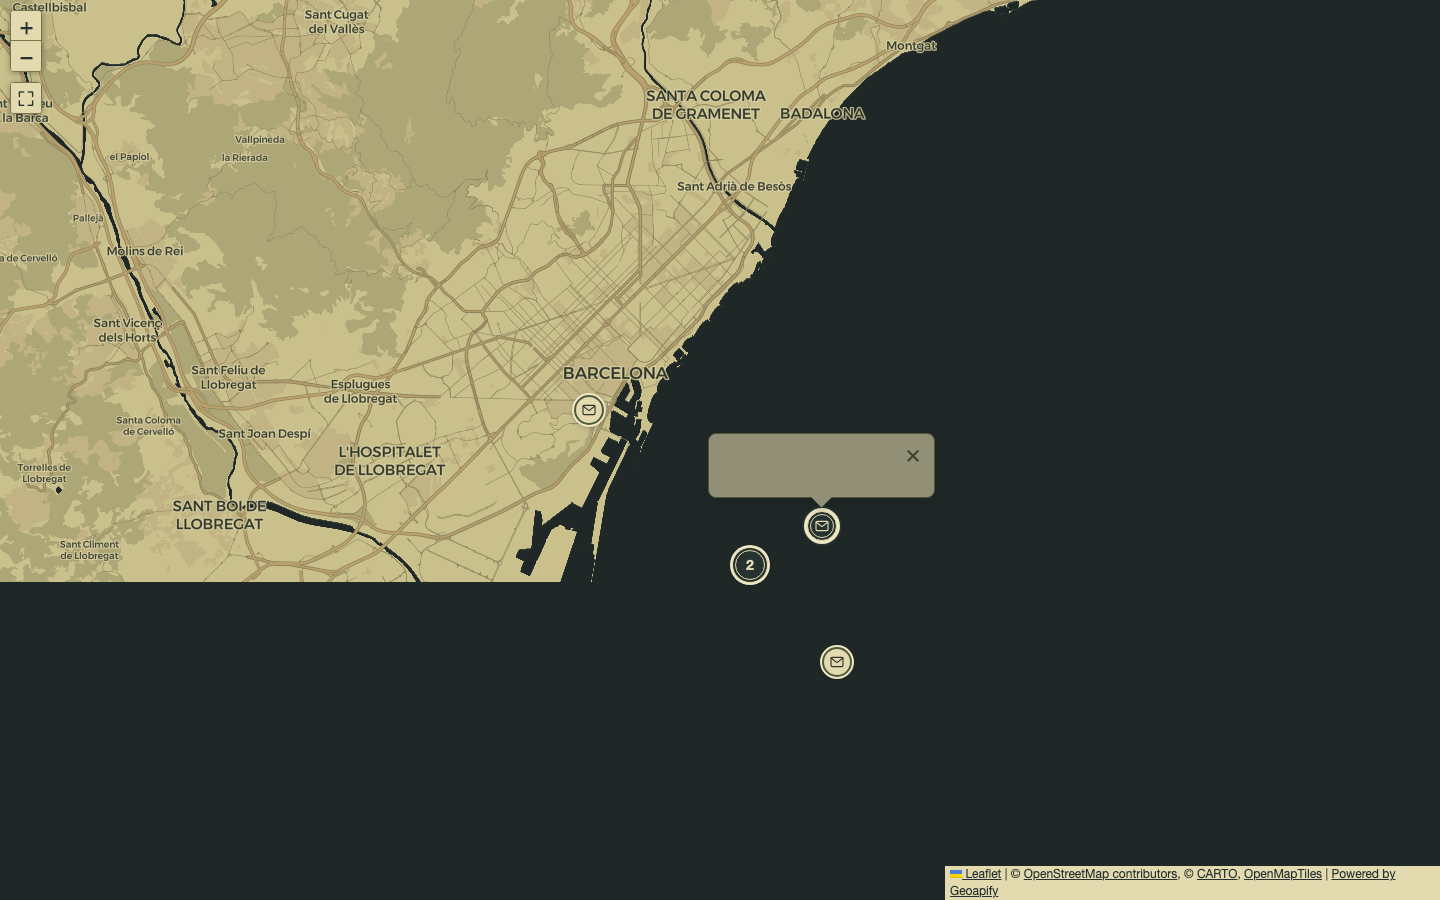
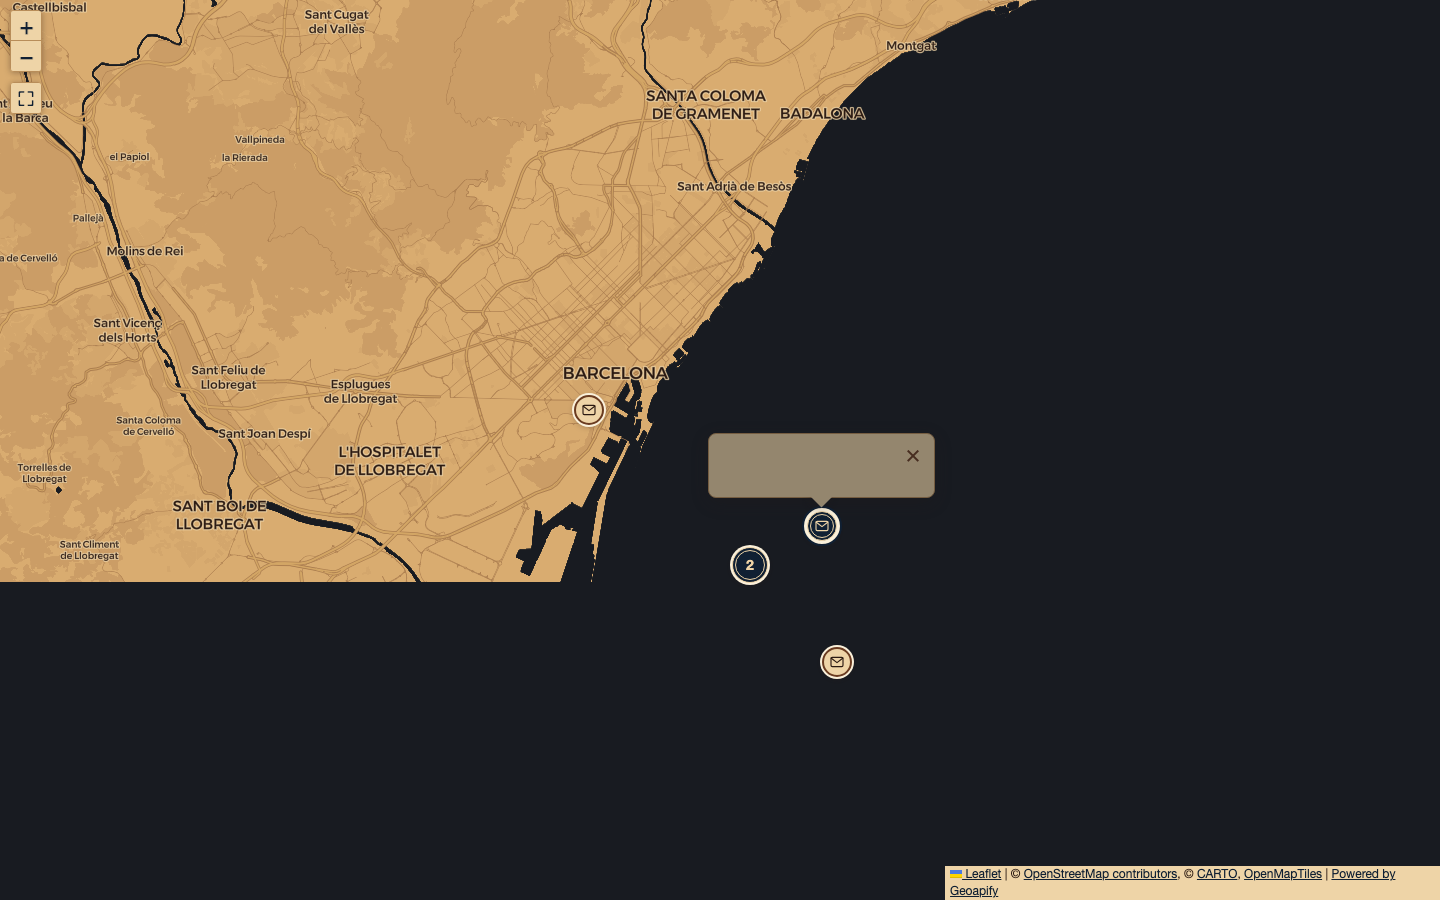
style(map): derive the atlas palette from existing site colors

Changed region(s): [[0.0, 0.0, 0.6875, 0.6533], [0.5625, 0.7156, 0.5938, 0.7467]]

diff --git a/src/config/map-style.config.ts b/src/config/map-style.config.ts
@@ -1,28 +1,30 @@
 /**
- * Fantasy atlas palette: charcoal seas, olive parchment land and dark ink.
+ * Site-derived atlas palette: header-dark seas, warm paper land and brown ink.
+ * Anchors match globals.css: header #181b21, paper #d9ac70, paper-light #eed4a7,
+ * ink #2b1a12, brown #6a3b20 and gold #c79a50. Feature shades mix these anchors.
  * Color palette for the CARTO Voyager vector background. Edit the HEX values and reload the map.
  * Letter and control colors live in src/components/map/map-theme.css.
  * Fallback PNG tiles retain the original CARTO colors.
  */
 export const mapStyle = {
   colors: {
-    land: '#c9c08c',
-    water: '#202827',
-    waterShore: '#36413a',
-    vegetation: '#ada777',
-    residential: '#c1b383',
-    buildings: '#afa071',
-    buildingOutline: '#7c7553',
-    roads: '#dbd0a0',
-    majorRoads: '#bca16d',
-    roadOutline: '#8e845d',
-    paths: '#8a825d',
-    railways: '#6e7355',
-    boundaries: '#747453',
-    labels: '#30372a',
-    waterLabels: '#d5d0af',
-    labelHalo: '#e1d7a8',
-    waterLabelHalo: '#202827',
+    land: '#d9ac70',
+    water: '#181b21',
+    waterShore: '#2b2a29',
+    vegetation: '#cb9d66',
+    residential: '#d3a66c',
+    buildings: '#c39560',
+    buildingOutline: '#b28454',
+    roads: '#eed4a7',
+    majorRoads: '#d3a665',
+    roadOutline: '#ad7f50',
+    paths: '#b28454',
+    railways: '#a7794c',
+    boundaries: '#9c6e44',
+    labels: '#2b1a12',
+    waterLabels: '#eed4a7',
+    labelHalo: '#eed4a7',
+    waterLabelHalo: '#181b21',
   },
 }
 

diff --git a/src/components/map/map-theme.css b/src/components/map/map-theme.css
@@ -1,21 +1,21 @@
 /* Map interface colors. Edit cartographic colors in src/config/map-style.config.ts. */
 :root {
-  --map-paper: #e3dab0;
-  --map-paper-hover: #d4c797;
-  --map-ink: #30352a;
-  --map-muted: #575e44;
-  --map-brown: #4e5a3d;
-  --map-navy: #26322f;
-  --map-navy-hover: #394a40;
-  --map-on-navy: #e3dab0;
-  --map-border: #77734c;
-  --map-focus: #26322f;
-  --map-halo: #f0e8c4;
-  --map-shadow: #101a1959;
-  --map-disabled: #6b6e54;
-  --map-canvas: #202827;
+  --map-paper: #eed4a7;
+  --map-paper-hover: #d9ac70;
+  --map-ink: #2b1a12;
+  --map-muted: #684728;
+  --map-brown: #6a3b20;
+  --map-navy: #102033;
+  --map-navy-hover: #213c55;
+  --map-on-navy: #eed4a7;
+  --map-border: #b88d59;
+  --map-focus: #102033;
+  --map-halo: #faf0da;
+  --map-shadow: #241a1759;
+  --map-disabled: #746042;
+  --map-canvas: #181b21;
   --map-grain-opacity: .12;
-  --map-aged-edge: #37433233;
+  --map-aged-edge: #57321f33;
 }
 
 .leaflet-container { background: var(--map-canvas); }

diff --git a/tests/visual/fixtures/map-palette.tsx b/tests/visual/fixtures/map-palette.tsx
@@ -19,8 +19,10 @@ function Fixture() {
   const [fullscreen, setFullscreen] = useState(false)
   const [selected, setSelected] = useState<string>()
   const [visible, setVisible] = useState(true)
+  const brandFrame = new URLSearchParams(location.search).get('frame') === 'brand'
   return <NextIntlClientProvider locale="en" messages={{ Map: messages }} timeZone="UTC"><MapQueryProvider>
-    <main style={{ maxWidth: 1200, margin: '24px auto', padding: '0 12px' }}>
+    {brandFrame && <header className="site-header"><span className="nav-brand">Atiny Atlas</span></header>}
+    <main className={brandFrame ? 'paper-world' : undefined} style={{ maxWidth: 1200, margin: '24px auto', padding: '0 12px' }}>
       <h1 style={{ margin: '0 0 8px', color: '#102033', fontSize: 24 }}>ATINY letters · Barcelona</h1>
       <p style={{ margin: '0 0 16px' }}>Water, city and terrain · map palette</p>
       <button onClick={() => setSelected(features[2].publicId)}>Select letter</button>

diff --git a/docs/map-palette.md b/docs/map-palette.md
@@ -9,8 +9,8 @@ Edit **`src/config/map-style.config.ts`** and reload the map. The same configura
 ```ts
 export const mapStyle = {
   colors: {
-    land: '#c9c08c',
-    water: '#202827',
+    land: '#d9ac70',
+    water: '#181b21',
     // Other feature colors are listed in the configuration file.
   },
 }
@@ -18,38 +18,38 @@ export const mapStyle = {
 
 | Setting | Default | Use |
 | --- | --- | --- |
-| `land` | `#c9c08c` | Olive parchment continents and country boundary halo |
-| `water` | `#202827` | Charcoal seas, lakes and rivers |
-| `waterShore` | `#36413a` | Water edge/shadow |
-| `vegetation` | `#ada777` | Parks, woodland and natural land cover |
-| `residential` | `#c1b383` | Residential areas |
-| `buildings` | `#afa071` | Buildings and roofs |
-| `buildingOutline` | `#7c7553` | Building outlines |
-| `roads` | `#dbd0a0` | Minor roads and airport surfaces |
-| `majorRoads` | `#bca16d` | Primary/secondary roads, trunks and motorways |
-| `roadOutline` | `#8e845d` | Road casings, including bridges and tunnels |
-| `paths` | `#8a825d` | Paths |
-| `railways` | `#6e7355` | Rail lines; dashes use `roads` |
-| `boundaries` | `#747453` | Country and administrative boundaries |
-| `labels` | `#30372a` | Place, road, building-number and point-of-interest text |
-| `waterLabels` | `#d5d0af` | Water names |
-| `labelHalo` | `#e1d7a8` | Light halo for dark labels on land |
-| `waterLabelHalo` | `#202827` | Dark halo for light water names |
+| `land` | `#d9ac70` | Warm site parchment continents and country boundary halo |
+| `water` | `#181b21` | Site header-dark seas, lakes and rivers |
+| `waterShore` | `#2b2a29` | Water edge/shadow |
+| `vegetation` | `#cb9d66` | Parks, woodland and natural land cover |
+| `residential` | `#d3a66c` | Residential areas |
+| `buildings` | `#c39560` | Buildings and roofs |
+| `buildingOutline` | `#b28454` | Building outlines |
+| `roads` | `#eed4a7` | Minor roads and airport surfaces |
+| `majorRoads` | `#d3a665` | Primary/secondary roads, trunks and motorways |
+| `roadOutline` | `#ad7f50` | Road casings, including bridges and tunnels |
+| `paths` | `#b28454` | Paths |
+| `railways` | `#a7794c` | Rail lines; dashes use `roads` |
+| `boundaries` | `#9c6e44` | Country and administrative boundaries |
+| `labels` | `#2b1a12` | Place, road, building-number and point-of-interest text |
+| `waterLabels` | `#eed4a7` | Water names |
+| `labelHalo` | `#eed4a7` | Light halo for dark labels on land |
+| `waterLabelHalo` | `#181b21` | Dark halo for light water names |
 
 The `water` setting colors the dominant ocean fill, including CARTO's translated overlay; `waterShore` colors its narrow exposed shoreline. The configuration changes paint colors; CARTO's existing placement, geometry, widths, opacity and zoom-dependent visibility remain intact. Changes to those advanced properties belong in the style builder or the pinned style, rather than the color palette.
 
 ## Letters and controls
 
-Edit **`src/components/map/map-theme.css`** for all `--map-*` interface tokens. Parchment markers have an olive-ink border and a pale paper halo. Charcoal clusters have a double border and a numeric count. Selected letters have a double border plus an outer ring; keyboard focus adds a dashed outline. Selection is also exposed as `aria-pressed`.
+Edit **`src/components/map/map-theme.css`** for all `--map-*` interface tokens. Parchment markers have a brown-ink border and a pale paper halo. Site navy clusters have a double border and a numeric count. Selected letters have a double border plus an outer ring; keyboard focus adds a dashed outline. Selection is also exposed as `aria-pressed`.
 
 | Content | Foreground / background | Contrast |
 | --- | --- | --- |
-| Marker, popup and attribution text | `#30352a` / `#e3dab0` | 8.94:1 |
-| Cluster and selected letter | `#e3dab0` / `#26322f` | 9.45:1 |
-| Zoom/fullscreen controls | `#26322f` / `#e3dab0` | 9.45:1 |
-| Secondary interface text | `#575e44` / `#e3dab0` | 4.83:1 |
-| Cartographic label / halo | `#30372a` / `#e1d7a8` | 8.49:1 |
-| Water label / halo | `#d5d0af` / `#202827` | 9.66:1 |
+| Marker, popup and attribution text | `#2b1a12` / `#eed4a7` | 11.60:1 |
+| Cluster and selected letter | `#eed4a7` / `#102033` | 11.45:1 |
+| Zoom/fullscreen controls | `#102033` / `#eed4a7` | 11.45:1 |
+| Secondary interface text | `#684728` / `#eed4a7` | 5.80:1 |
+| Cartographic label / halo | `#2b1a12` / `#eed4a7` | 11.60:1 |
+| Water label / halo | `#eed4a7` / `#181b21` | 12.00:1 |
 
 These ratios apply to the defaults. Recheck contrast after editing colors. A subtle, static SVG grain and edge shading age only the vector background. Set `--map-grain-opacity` to `0` to disable the effect; `--map-aged-edge` adjusts its edge tint. Markers, controls and popups sit in separate panes, so their contrast remains unchanged by the texture.
 
@@ -80,8 +80,10 @@ The palette tests wait for a zoom to finish before unmounting. Leaflet 1.9.4 has
 - Existing map browser suite: 28 passed, 1 intermittent failure in `applies partial cities automatically without moving the filters on /map at 390px` (city URL parameter timing). A previous run hit the desktop variant and a selected-popup timing failure; their focused reruns passed. The failing mobile case then passed three consecutive focused reruns; the unchanged baseline also passed its focused repetitions. The cause of the intermittent failure is not attributed to this PR. Keep this limitation visible when reviewing the experimental PR.
 - Actual production build: vector layer visible, raster layer removed, worker and `/api/map/features`, `/api/map/messages`, `/api/map/filter-options` returned HTTP 200, no page errors.
 
-### Dark-sea fantasy atlas refinement
+### Site-derived atlas refinement
 
-The latest supplied fantasy-map reference guides the active palette: charcoal seas, olive parchment continents and dark ink. Forests use muted olive, cities and buildings use aged ochres, and major roads use desaturated brass. These HEX values are interpreted from the reference, not exact sampled colors. Land labels use dark ink with a light halo; water names use pale ink with a dark halo. A static, low-opacity paper grain remains confined to the vector background, keeping letters and controls crisp.
+The dark-sea/light-land composition remains, with its colors anchored to the existing website rather than an independent olive palette. The sea uses the exact `.site-header` base color (`#181b21`). Land uses `--paper` (`#d9ac70`); labels use `--ink` (`#2b1a12`), and light paper uses `--paper-light` (`#eed4a7`). The palette configuration records these source anchors from `globals.css`.
 
-The earlier nautical palette remains available in Git history and its world capture is retained for comparison. The current configuration files still control the active colors and texture. This palette is applied to real-world cartography.
+Vegetation mixes paper with 13% site brown, residential areas with 5%, buildings with 20%, building outlines/paths with 35%, road outlines with 40%, railways with 45%, and boundaries with 55%. Major roads mix paper with 35% site gold (`#c79a50`). This keeps detail within the website's warm brown, paper and gold family. Marker, control and popup tokens use the same ink, brown, light paper and navy as the page.
+
+The paper texture is still confined to the cartography. The earlier olive and nautical world captures remain available for comparison. The additional `?frame=brand` fixture uses the actual `.site-header` and `.paper-world` CSS to show the map alongside the existing site colors.

diff --git a/docs/previews/issue-131/README.md b/docs/previews/issue-131/README.md
@@ -2,7 +2,7 @@
 
 The same production map component is rendered in a deterministic letter harness. CARTO tiles are real; letter data is a local fixture. The before/after, popup and fullscreen captures use Barcelona at latitude 41.395, longitude 2.16 and Leaflet zoom 12. Browser: Chromium. Height: 900 px. The baseline uses commit `628556c`; the updated view uses this branch.
 
-| Viewport | Before: raster and original palette | After: vector and dark-sea atlas palette |
+| Viewport | Before: raster and original palette | After: vector and site-derived atlas palette |
 | --- | --- | --- |
 | Desktop, 1440 px | ![Original desktop map](before-1440.png) | ![Updated desktop map](after-1440.png) |
 | Mobile, 390 px | ![Original mobile map](before-390.png) | ![Updated mobile map](after-390.png) |
@@ -19,16 +19,24 @@ The same production map component is rendered in a deterministic letter harness.
 | --- | --- |
 | ![Desktop fullscreen map](fullscreen-1440.png) | ![Mobile fullscreen map](fullscreen-390.png) |
 
-The screenshots show paper markers over olive parchment urban land, the charcoal sea and muted olive natural terrain, charcoal clusters and a selected letter with a double border and outer ring. Browser assertions separately check dashed keyboard focus and contrast of at least 4.5:1 for normal, selected and hovered letters, clusters, controls, popup and attribution text. The 320 px viewport is tested without adding another near-identical capture.
+The screenshots show paper markers over warm paper urban land, the header-dark sea and brown-paper natural terrain, navy clusters and a selected letter with a double border and outer ring. Browser assertions separately check dashed keyboard focus and contrast of at least 4.5:1 for normal, selected and hovered letters, clusters, controls, popup and attribution text. The 320 px viewport is tested without adding another near-identical capture.
 
 See [palette configuration and verification](../../map-palette.md) for editing instructions, default colors, fallback behavior and reproduction commands.
 
-## Dark-sea atlas at world scale
+## Site-derived atlas at world scale
 
-The latest reference uses olive parchment continents over a charcoal sea. The world view (1024 px viewport, center 20°N / 0°, zoom 2) shows this relationship in the interactive vector map. The same palette derives dark ink, ochre cities, olive forests and brass roads for closer zooms.
+The current map retains dark seas and light land, using the site's header (`#181b21`) and paper (`#d9ac70`) colors. The world view (1024 px viewport, center 20°N / 0°, zoom 2) shows the active palette.
 
-![Fantasy atlas palette at world scale](reference-world.png)
+![Site-derived atlas palette at world scale](reference-world.png)
 
-The earlier nautical version is retained for comparison:
+The site-color context capture includes the actual header and paper-section CSS. Reproduce it with `?frame=brand` in the palette harness:
+
+![Map alongside the existing site header and paper colors](brand-context.png)
+
+## Previous palettes
+
+The earlier olive and nautical versions are retained for comparison:
+
+![Earlier olive parchment palette](olive-world.png)
 
 ![Earlier dark-land nautical palette](nautical-world.png)
